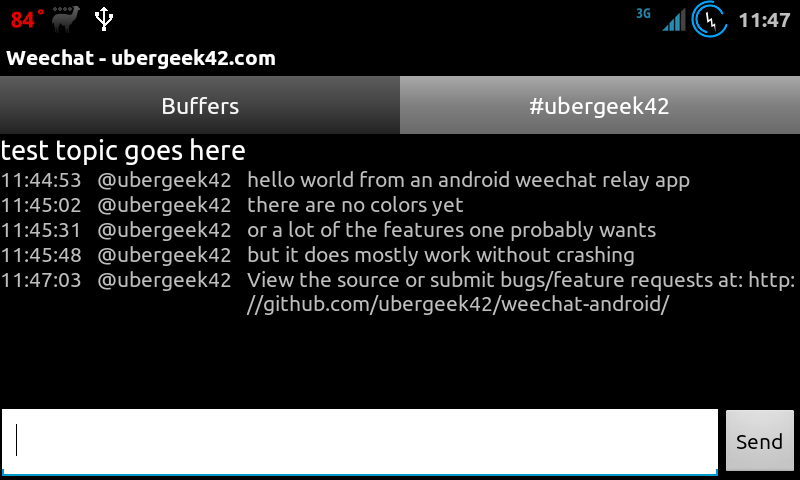
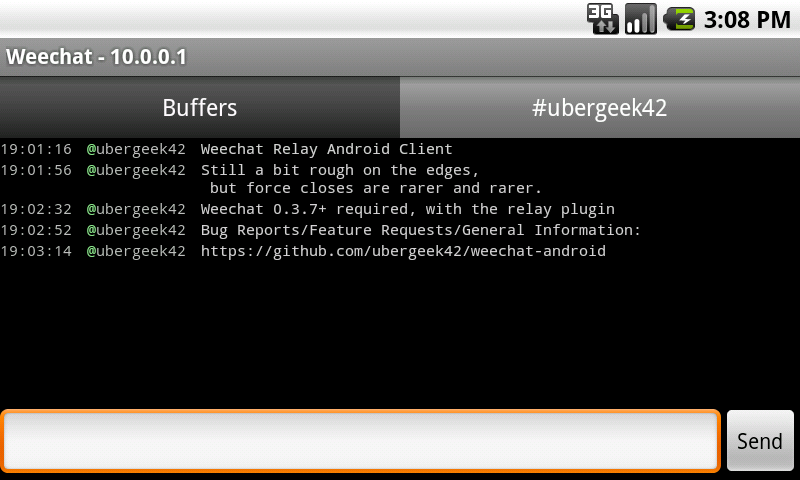
Weechat Relay Android Client v0.03
Toggleable Colors(without restart)
Toggleable timestamp
Show highlight's(Incoming message highlights require weechat 0.3.8-dev)
Switch to monospaced font, changed textsize to smaller
Removed topic line from chatview
Updated Readme.md
Updated Screenshots

diff --git a/weechat/src/com/ubergeek42/ChatViewTab.java b/weechat/src/com/ubergeek42/ChatViewTab.java
@@ -5,6 +5,7 @@ import java.util.LinkedList;
 import org.slf4j.Logger;
 import org.slf4j.LoggerFactory;
 
+import android.graphics.Color;
 import android.text.Html;
 import android.view.KeyEvent;
 import android.view.LayoutInflater;
@@ -27,11 +28,15 @@ public class ChatViewTab implements TabHost.TabContentFactory, BufferObserver, O
 
 	private static final Logger logger = LoggerFactory.getLogger(ChatViewTab.class);
 	
+	// Global settings for all chatviewtabs
+	private static boolean enableColor = true;
+	private static boolean enableTimestamp = true;
+	
+	
 	private Buffer wb;
 	private LayoutInflater inflater;
 
 	private ScrollView scrollview;
-	private TextView titlestr;
 	private TableLayout table;
 	private EditText inputBox;
 	private Button sendButton;
@@ -41,11 +46,11 @@ public class ChatViewTab implements TabHost.TabContentFactory, BufferObserver, O
 	// Used to cache rendered table rows(as it is very slow to build them every refresh)
 	private LRUMap<BufferLine,TableRow> tableCache = new LRUMap<BufferLine,TableRow>(Buffer.MAXLINES, Buffer.MAXLINES);
 	
-	// TODO: expose setting in the UI for coloring messages(Note: somewhat slow)
-	private static boolean enableColor = true;
-	
 	protected static void setColorsEnabled(boolean enabled) {
 		enableColor = enabled;
+	}
+	protected static void setTimestampEnabled(boolean enabled) {
+		enableTimestamp = enabled;
 	}
 	
 	public ChatViewTab(Buffer wb, WeechatActivity activity) {
@@ -80,34 +85,48 @@ public class ChatViewTab implements TabHost.TabContentFactory, BufferObserver, O
 			if (destroyed)return;
 			LinkedList<BufferLine> lines = wb.getLines();
 			table.removeAllViews();
-			for(BufferLine cm: lines) {
-				if (tableCache.containsKey(cm))
-					table.addView(tableCache.get(cm));
-				else {
-					TableRow tr = (TableRow)inflater.inflate(R.layout.chatline, null);
-					
-					TextView timestamp = (TextView) tr.findViewById(R.id.chatline_timestamp);
-					timestamp.setText(cm.getTimestampStr());
-					
-					TextView prefix = (TextView) tr.findViewById(R.id.chatline_prefix);
-					if (enableColor) {
-						prefix.setText(Html.fromHtml(cm.getPrefixHTML()), TextView.BufferType.SPANNABLE);
-					} else {
-						prefix.setText(cm.getPrefix());
+			
+			synchronized(tableCache) {
+				for(BufferLine cm: lines) {
+					if (tableCache.containsKey(cm))
+						table.addView(tableCache.get(cm));
+					else {
+						TableRow tr = (TableRow)inflater.inflate(R.layout.chatline, null);
+						
+						TextView timestamp = (TextView) tr.findViewById(R.id.chatline_timestamp);
+						if (enableTimestamp) {
+							timestamp.setText(cm.getTimestampStr());
+						} else {
+							tr.removeView(timestamp);
+						}
+						
+						TextView prefix = (TextView) tr.findViewById(R.id.chatline_prefix);
+						if(cm.getHighlight()) {
+							prefix.setBackgroundColor(Color.MAGENTA);
+							prefix.setTextColor(Color.YELLOW);
+							prefix.setText(cm.getPrefix());
+						} else {
+							if (enableColor) {
+								prefix.setText(Html.fromHtml(cm.getPrefixHTML()), TextView.BufferType.SPANNABLE);
+							} else {
+								prefix.setText(cm.getPrefix());
+							}
+						}
+						
+						TextView message = (TextView) tr.findViewById(R.id.chatline_message);
+						if (enableColor) {
+							message.setText(Html.fromHtml(cm.getMessageHTML()), TextView.BufferType.SPANNABLE);
+						} else {
+							message.setText(cm.getMessage());
+						}
+	
+						// Add to the cache
+						tableCache.put(cm, tr);
+						table.addView(tr);
 					}
-					
-					TextView message = (TextView) tr.findViewById(R.id.chatline_message);
-					if (enableColor) {
-						message.setText(Html.fromHtml(cm.getMessageHTML()), TextView.BufferType.SPANNABLE);
-					} else {
-						message.setText(cm.getMessage());
-					}
-
-					// Add to the cache
-					tableCache.put(cm, tr);
-					table.addView(tr);
-				}
 			}
+			}
+			
 			logger.debug("updateChatView took: " + (System.currentTimeMillis() - start) + "ms");
 			scrollview.post(new Runnable() {
 				@Override
@@ -137,19 +156,11 @@ public class ChatViewTab implements TabHost.TabContentFactory, BufferObserver, O
         scrollview = (ScrollView) x.findViewById(R.id.chatview_scrollview);
         inputBox = (EditText)x.findViewById(R.id.chatview_input);
         table = (TableLayout)x.findViewById(R.id.chatview_lines);
-        titlestr = (TextView) x.findViewById(R.id.chatview_title);
         sendButton = (Button) x.findViewById(R.id.chatview_send);
-        
-        //titlestr.setText("random text for the title this is kinda long and hopefully more than 2 lines and takes up a bunch of space so it needs to marquee");
-        if (!destroyed)
-        	titlestr.setText(wb.getTitle());
-        
-        // TODO: figure out best way to have scrollable title
-        //titlestr.setMovementMethod(new ScrollingMovementMethod());
+
         
         scrollview.setFocusable(false);
         table.setFocusable(false);
-        titlestr.setFocusable(false);
         
         sendButton.setOnClickListener(this);
         inputBox.setOnKeyListener(this);
@@ -195,6 +206,13 @@ public class ChatViewTab implements TabHost.TabContentFactory, BufferObserver, O
 
 	public boolean isDestroyed() {
 		return destroyed;
+	}
+	// Called to invalidate all cached content and redraw
+	public void invalidate() {
+		synchronized(tableCache) {
+			tableCache.clear();
+		}
+		activity.runOnUiThread(updateCV);
 	}
 
 }

diff --git a/weechat/src/com/ubergeek42/WeechatActivity.java b/weechat/src/com/ubergeek42/WeechatActivity.java
@@ -12,6 +12,7 @@ import android.content.DialogInterface;
 import android.content.DialogInterface.OnCancelListener;
 import android.content.Intent;
 import android.content.SharedPreferences;
+import android.content.SharedPreferences.OnSharedPreferenceChangeListener;
 import android.content.res.Configuration;
 import android.os.Bundle;
 import android.preference.PreferenceManager;
@@ -36,7 +37,7 @@ import com.ubergeek42.weechat.relay.messagehandler.LineHandler;
 import com.ubergeek42.weechat.relay.messagehandler.NicklistHandler;
 
 public class WeechatActivity extends Activity implements OnItemClickListener,
-		OnCancelListener, RelayConnectionHandler {
+		OnCancelListener, RelayConnectionHandler, OnSharedPreferenceChangeListener {
 	private static final Logger logger = LoggerFactory.getLogger(WeechatActivity.class);
 
 	BufferListAdapter m_adapter;
@@ -62,6 +63,8 @@ public class WeechatActivity extends Activity implements OnItemClickListener,
 		setContentView(R.layout.main);
 		
 		prefs = PreferenceManager.getDefaultSharedPreferences(getBaseContext());
+		prefs.registerOnSharedPreferenceChangeListener(this);
+		
 		boolean chatviewColors = prefs.getBoolean("chatview_color", true);
 		ChatViewTab.setColorsEnabled(chatviewColors);
 		
@@ -81,8 +84,11 @@ public class WeechatActivity extends Activity implements OnItemClickListener,
 		bufferlist.setAdapter(m_adapter);
 		bufferlist.setOnItemClickListener(this);
 
-		if (prefs.getBoolean("connect_onstart", false))
+		if (prefs.getBoolean("connect_onstart", false)) {
 			connect();
+		} else {
+			Toast.makeText(getApplicationContext(), "Press Menu to access preferences or connect", Toast.LENGTH_LONG).show();
+		}
 	}
 
 	// Add a tab using an existing view ID(like R.id.maintab, defined in main.xml)
@@ -284,7 +290,7 @@ public class WeechatActivity extends Activity implements OnItemClickListener,
 					progressDialog.dismiss();
 				}
 				Toast.makeText(getBaseContext(),
-						"Connected to server: " + wr.getServer(), 1000).show();
+						"Connected to server: " + wr.getServer(), Toast.LENGTH_LONG).show();
 			}
 		});
 
@@ -317,7 +323,7 @@ public class WeechatActivity extends Activity implements OnItemClickListener,
 		wr.sendMsg("(listbuffers) hdata buffer:gui_buffers(*) number,full_name,short_name,type,title,nicklist,local_variables");
 		
 		// Get the last MAXLINES for each buffer
-		wr.sendMsg("(listlines_reverse) hdata buffer:gui_buffers(*)/own_lines/last_line(-" + Buffer.MAXLINES + ")/data date,displayed,prefix,message");
+		wr.sendMsg("(listlines_reverse) hdata buffer:gui_buffers(*)/own_lines/last_line(-" + Buffer.MAXLINES + ")/data date,displayed,prefix,message,highlight");
 
 		// Get the nicklist for any buffers we have
 		wr.sendMsg("nicklist","nicklist","");
@@ -344,5 +350,20 @@ public class WeechatActivity extends Activity implements OnItemClickListener,
 	// Eat configuration changes so we don't reload during orientation/keyboard changes
 	public void onConfigurationChanged(Configuration newConfig) {
 		super.onConfigurationChanged(newConfig);
+	}
+
+	@Override
+	public void onSharedPreferenceChanged(SharedPreferences sharedPreferences, String key) {
+		if (key.equals("chatview_color")) {
+			ChatViewTab.setColorsEnabled(prefs.getBoolean("chatview_color", true));
+			for (ChatViewTab cv: chats) {
+				cv.invalidate();
+			}
+		} else if (key.equals("chatview_timestamp")) {
+			ChatViewTab.setTimestampEnabled(prefs.getBoolean("chatview_timestamp", true));
+			for (ChatViewTab cv: chats) {
+				cv.invalidate();
+			} 
+		}
 	}
 }

diff --git a/weechat-relay/src/com/ubergeek42/weechat/relay/messagehandler/LineHandler.java b/weechat-relay/src/com/ubergeek42/weechat/relay/messagehandler/LineHandler.java
@@ -26,13 +26,18 @@ public class LineHandler implements RelayMessageHandler {
 			for (int i=0; i<whdata.getCount(); i++) {
 				HdataEntry hde = whdata.getItem(i);
 				// TODO: check last item of path is line_data
-				
+
 				// Get the information about the "line"
 				String message = hde.getItem("message").asString();
 				String prefix = hde.getItem("prefix").asString();
 				boolean displayed = (hde.getItem("displayed").asChar()==0x01);
 				Date time = hde.getItem("date").asTime();
 				String bPointer = hde.getItem("buffer").asPointer();
+				
+				// Try to get highlight status(added in 0.3.8-dev: 2012-03-06)
+				RelayObject t = hde.getItem("highlight");
+				boolean highlight = false;
+				if(t!=null) highlight = (t.asChar()==0x01);
 	
 				// Find the buffer to put the line in
 				Buffer buffer = cb.findByPointer(bPointer);
@@ -43,6 +48,7 @@ public class LineHandler implements RelayMessageHandler {
 				cm.setMessage(message);
 				cm.setTimestamp(time);
 				cm.setVisible(displayed);
+				cm.setHighlight(highlight);
 				
 				// XXX: debugging statement
 				System.out.println(cm);
@@ -61,6 +67,7 @@ public class LineHandler implements RelayMessageHandler {
 				boolean displayed = (hde.getItem("displayed").asChar()==0x01);
 				Date time = hde.getItem("date").asTime();
 				String bPointer = hde.getPointer(0);
+				boolean highlight = (hde.getItem("highlight").asChar()==0x01);
 	
 				// Find the buffer to put the line in
 				Buffer buffer = cb.findByPointer(bPointer);
@@ -71,6 +78,8 @@ public class LineHandler implements RelayMessageHandler {
 				cm.setMessage(message);
 				cm.setTimestamp(time);
 				cm.setVisible(displayed);
+
+				cm.setHighlight(highlight);
 				
 				// XXX: debugging statement
 				//System.out.println(buffer.getFullName() + " " + cm);

diff --git a/weechat-relay/src/com/ubergeek42/weechat/BufferLine.java b/weechat-relay/src/com/ubergeek42/weechat/BufferLine.java
@@ -25,6 +25,7 @@ public class BufferLine {
 	private String timeStr = null;
 	
 	private boolean visible;
+	private boolean highlight;
 	
 	// TODO: consider caching the color "cleaned" values as well
 	
@@ -128,5 +129,19 @@ public class BufferLine {
 		sb.append(" | ");
 		sb.append(cleanMessage(message));
 		return sb.toString();
+	}
+	/**
+	 * Set whether the line was a 'highlight' and should be noticed by the user
+	 * @param highlight - Whether the line is highlighted or not
+	 */
+	public void setHighlight(boolean highlight) {
+		this.highlight = highlight;
+	}
+	/**
+	 * Returns whether a line is a 'highlight' or not
+	 * @return Whether the line is a 'highlight' or not
+	 */
+	public boolean getHighlight() {
+		return highlight;
 	}
 }

diff --git a/weechat-relay/src/com/ubergeek42/weechat/Color.java b/weechat-relay/src/com/ubergeek42/weechat/Color.java
@@ -397,8 +397,9 @@ public class Color {
 	        char c = s.charAt(i);
 	        if (c=='&') {
 	        	out.append("&amp;");
-	        }else if(c > 127 || c=='"' || c=='<' || c=='>')
-	        {
+	        } else if (c==' ') {
+	        	out.append("&nbsp;");
+	        } else if(c > 127 || c=='"' || c=='<' || c=='>') {
 	           out.append("&#"+(int)c+";");
 	        }
 	        else

diff --git a/Readme.md b/Readme.md
@@ -1,4 +1,4 @@
-Weechat Android Relay Client v0.02
+Weechat Android Relay Client v0.03
 ==================================
 This is an Android Weechat Relay client.
 It should be treated as pre-alpha software, with no expectations of functionality.(However, in my limited tests it seems to mostly work)
@@ -6,9 +6,9 @@ It should be treated as pre-alpha software, with no expectations of functionalit
 ###Download
 USE AT YOUR OWN RISK! This is alpha software and I am not responsible if your device bursts into flames, you lose all of your data, or if anything else bad happens.
 
-Either scan the QR code, or click the link to download the apk.  Click on it and choose to install. [Download Link](https://github.com/downloads/ubergeek42/weechat-android/weechat.apk)
+Either scan the QR code, or click the link to download the apk.  Click on it and choose to install. [Download Link](https://github.com/downloads/ubergeek42/weechat-android/weechat-0.03.apk)
 
-![Download](https://chart.googleapis.com/chart?cht=qr&chs=200x200&chl=https://github.com/downloads/ubergeek42/weechat-android/weechat.apk)
+![Download](https://chart.googleapis.com/chart?cht=qr&chs=200x200&chl=https://github.com/downloads/ubergeek42/weechat-android/weechat-0.03.apk)
 
 ### Bug Reports and Feature Requests Welcome!
 Please report any bugs or feature requests here on github, or send me an email: kj@ubergeek42.com
@@ -17,7 +17,7 @@ Please report any bugs or feature requests here on github, or send me an email: 
 At the main screen, press menu, then choose preferences.
 Configure your hostname, port, and password.  You can also choose to connect automatically next time the app runs, or enable colors(May be a little slow at times).
 
-Then press Menu->Connect to connect to the server. If successful you will see a list of your weechat buffers.  Clicking on a buffer opens it in a new tab.  A buffer currently displays the 50 most recent lines.  I plan to make this configurable in the future.
+Then press Menu->Connect to connect to the server. If successful you will see a list of your weechat buffers.  Clicking on a buffer opens it in a new tab.  A buffer currently displays the 50 most recent lines.  I plan to make this configurable in the future(More is slower).
 
 To see the nicklist for the current buffer, press menu, then choose nicklist.
 
@@ -43,11 +43,17 @@ For more details about Weechat and the Relay Protocol:
 
 ###Screenshots
 <a href="https://github.com/ubergeek42/weechat-android/raw/master/releases/chat-channel.png"><img src="https://github.com/ubergeek42/weechat-android/raw/master/releases/chat-channel.png" width="400px"></a>
+<a href="https://github.com/ubergeek42/weechat-android/raw/master/releases/weechat.png"><img src="https://github.com/ubergeek42/weechat-android/raw/master/releases/weechat.png" height="400px"></a>
 <a href="https://github.com/ubergeek42/weechat-android/raw/master/releases/preferences.png"><img src="https://github.com/ubergeek42/weechat-android/raw/master/releases/preferences.png" height="400px"></a>
 <a href="https://github.com/ubergeek42/weechat-android/raw/master/releases/buffers-tab.png"><img src="https://github.com/ubergeek42/weechat-android/raw/master/releases/buffers-tab.png" height="400px"></a>
 <a href="https://github.com/ubergeek42/weechat-android/raw/master/releases/buffer-colors.png"><img src="https://github.com/ubergeek42/weechat-android/raw/master/releases/buffer-colors.png" height="400px"></a>
 
 ### Changelog
+#### v0.03
+* Preferences for Colors/Timestamp
+* Highlight support for messages
+* Misc bugfixes
+
 #### v0.02
 * Colors!
 * A few bugfixes
